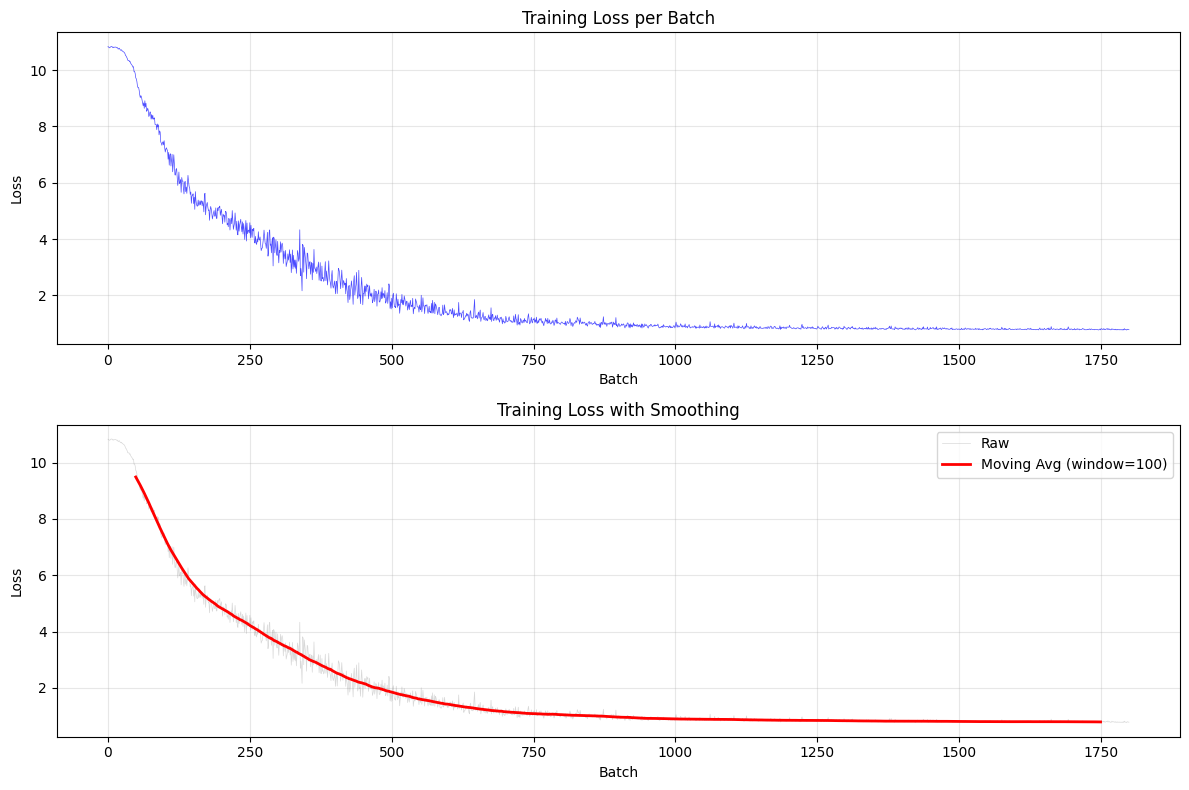
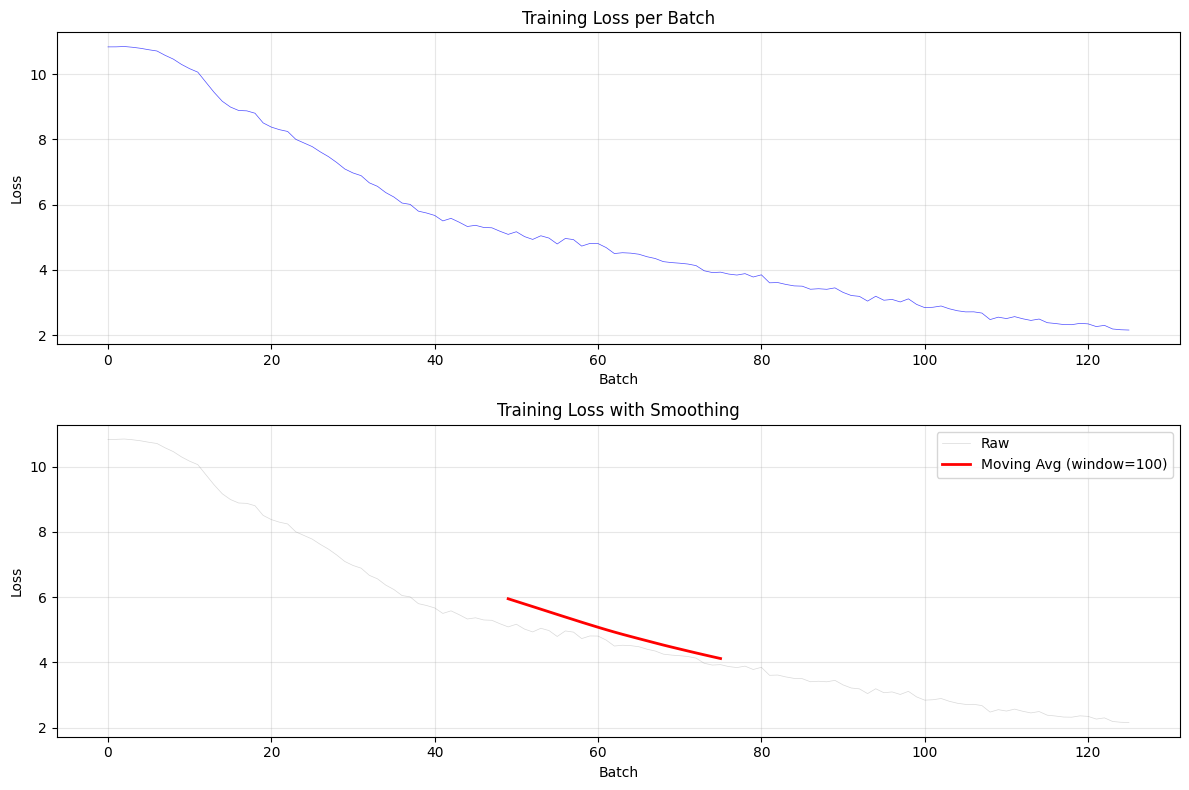
aaaa

diff --git a/examples/language_modelling/train_pytorch.py b/examples/language_modelling/train_pytorch.py
@@ -21,7 +21,7 @@ from wave_transformer.language_modelling.token_encoder import TokenToWaveEncoder
 
 from wave_transformer.language_modelling.train_utils import prepare_autoregressive_batch, compute_language_modeling_loss, \
     cosine_schedule_with_warmup, camel_to_snake, extract_architecture_details, test_generation, diversity_report, \
-    save_training_chronicle, compute_distillation_loss
+    save_training_chronicle
 
 
 def train_epoch(epoch, model, dataloader, optimizer, scheduler, pad_token_id, accumulation_steps=1):
@@ -164,16 +164,16 @@ def train_language_model(big_training: bool = False):
     num_layers = 16
     num_heads = 8
     dropout = 0.1
-    num_harmonics = 64
+    num_harmonics = 128
 
     # Hyperparameters
-    epochs = 10
-    batch_size = 4
+    epochs = 4
+    batch_size = 32
     eval_batch_size = 1
     accumulation_steps = 1
     base_lr = 3e-4
     final_lr = 5e-5
-    warmup_pct = 0.025
+    warmup_pct = 0.1
 
     model_name = "HuggingFaceTB/SmolLM2-135M-Instruct"
 
@@ -210,23 +210,28 @@ def train_language_model(big_training: bool = False):
             random.shuffle(texts)
             random.shuffle(texts)
             factor = int(len(texts) * 0.90)
-            train_corpus = texts[:factor]
-
+            train_corpus = texts * 50
+            random.shuffle(train_corpus)
+            random.shuffle(train_corpus)
+            random.shuffle(train_corpus)
+            random.shuffle(train_corpus)
             eval_corpus = texts[factor:]
 
-            return train_corpus * 50, eval_corpus
+            return train_corpus, eval_corpus
 
 
         train_corpus, eval_corpus = load_dao_teachings()
         avg_train_length = 0
         max_train_length = -1
+        min_train_length = 10000
         for train_text in train_corpus:
             train_length = len(tokenizer.encode(train_text).ids)
             avg_train_length += train_length
             max_train_length = max(max_train_length, train_length)
+            min_train_length = min(min_train_length, train_length)
 
         avg_train_length = avg_train_length / len(train_corpus)
-        print(f"Train length: {avg_train_length}, Max length: {max_train_length}")
+        print(f"Train length: {avg_train_length}, Max length: {max_train_length}, Min length: {min_train_length}")
         train_dataset = TextDatasetPadded(train_corpus, tokenizer, pad_token_id, seq_len, device=device)
         eval_dataset = TextDatasetPadded(eval_corpus, tokenizer, pad_token_id, seq_len, device=device)
         train_loader = DataLoader(train_dataset, batch_size=batch_size, shuffle=True, drop_last=True)
@@ -348,7 +353,6 @@ def train_language_model(big_training: bool = False):
         }, f"wave_transformer_epoch_{epoch + 1}.pt")
         print(f"  Checkpoint: {checkpoint_path}")
         #
-        #model.return_pathway.visualize_activations(device=device)
         # Compute metrics
 
         # Record epoch
